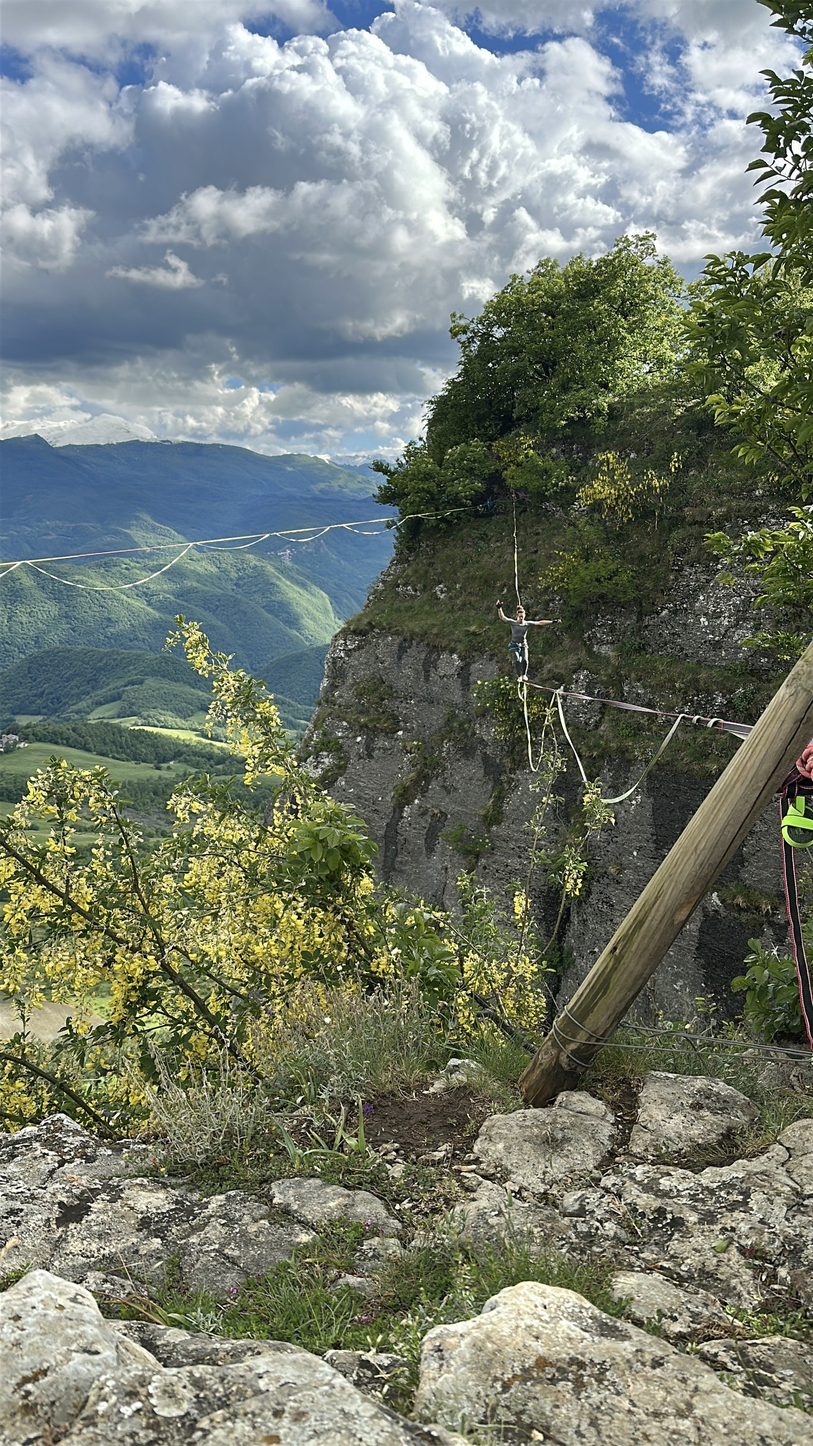
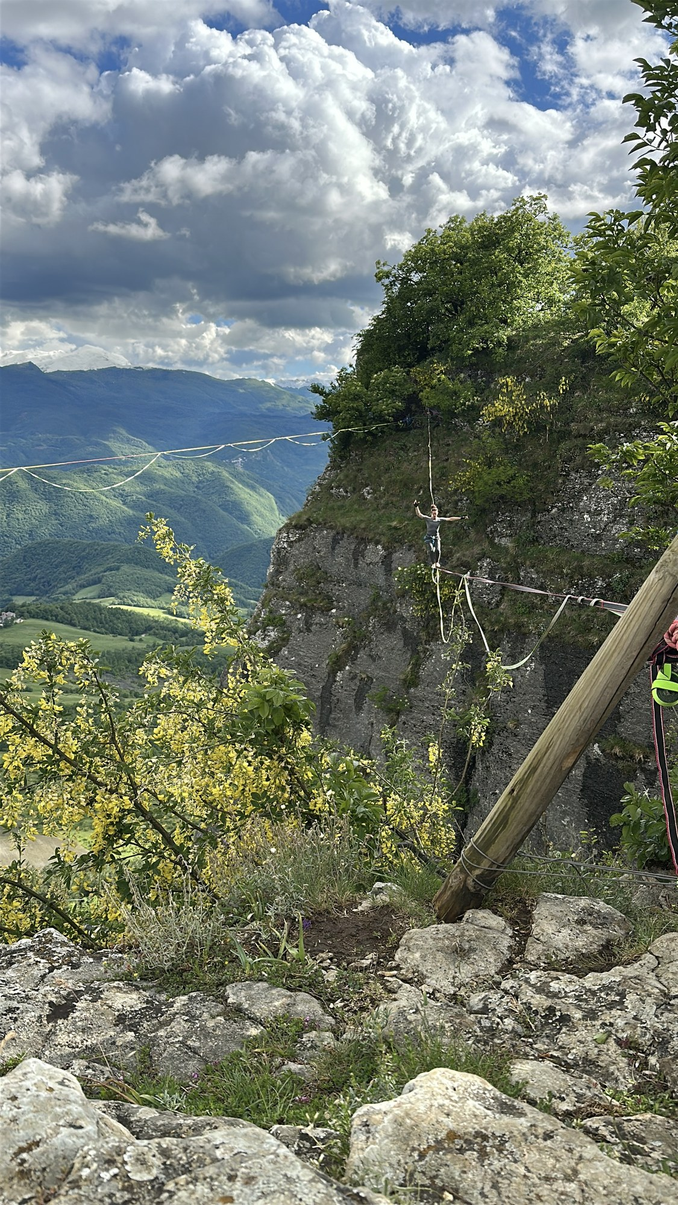
Documenta l'A-frame e la posizione dell'ancoraggio main
IMG_1416, fornita dall'utente il 20/08/2026, e' la stessa foto che era gia' in
foto_dritte ma con l'EXIF intatto: la copia in repo era un derivato ridotto e
l'EXIF, ridimensionando, si era perso. Rientra a 2000 px dall'originale.

Porta due cose che il progetto non aveva. La prima e' una posizione: 44.419869,
10.412353, quota 1025 m, registrata dal telefono di chi scattava stando
all'ancoraggio main. Il dubbio 3 chiedeva le coordinate dei due ancoraggi e non
aveva risposta; ora ne ha una, e il manuale la stampa dicendo che cos'e' — dove
stava il telefono, non un rilievo: colloca l'ancoraggio su una mappa, non lo
quota, e non serve a ritrovare il singolo punto.

La seconda e' l'A-frame. Era il dubbio 50: due pali di legno che nessuna delle
ventotto trascrizioni nomina mai, visti finora in una foto sola e mai entrati nel
manuale. Adesso hanno una sezione con le due fotografie, l'elenco di cio' che si
vede e l'elenco piu' lungo di cio' che manca. Solleva la linea sopra il bordo e
cambia l'angolo con cui carica la sosta: non e' un accessorio, ed e' il vuoto
documentale piu' grande dopo l'ancoraggio.

Cio' che la foto non decide resta domanda. Attorno al piede di un palo ci sono
giri di filo metallico che proseguono orizzontali: se tengano il palo o siano un
recinto preesistente non si stabilisce guardando, ed e' la differenza fra un
ancoraggio a terra e un caso. Sullo sfondo corre una linea tesa con sotto una
[…]

diff --git a/build/scheda_53.py b/build/scheda_53.py
@@ -90,7 +90,7 @@ def parte_53():
         ('13:55 — Tensionamento', 'Paranchino di base, pretensionamento'),
         ('14:09 — Blocco backup', 'Collegamento che prende sosta main e backup'),
         ('14:49 — Anti-slip', 'Nodo che impedisce lo slittamento nel weblock'),
-        ('17:08 — Linea camminata', 'Primi passaggi documentati dalle fotografie'),
+        ('17:08 — Linea camminata', 'Primi passaggi, documentati dalle fotografie fino alle 17:14'),
     ], LINEA, FW, 2))
     S.append(SP(14))
     S.append(callout('Un buco di un’ora e mezza',
@@ -328,9 +328,84 @@ def parte_53():
                      'dimenticanza di questo manuale: è un’assenza della fonte.', WARN, '!', FW, True))
     S.append(SP(26))
 
+    # ================================================================ p_ — A-frame
+    # Elemento strutturale che nessuna trascrizione nomina: esiste solo nelle
+    # fotografie, e per questo la sezione dice prima di tutto da dove viene.
+    sec(C_TEN, 'A-frame')
+    S.append(LineHeader('7', 'L’A-frame', _occh('lato tensione · A-frame'), C_TEN))
+    S.append(SP(10))
+    S.append(P('Sul lato dell’<b>ancoraggio main</b> la linea non esce dalla sosta e va '
+               'diritta nel vuoto: passa sopra un <b>A-frame</b>, due pali di legno tondo '
+               'incrociati in testa e appoggiati sul bordo. In ventidue minuti di parlato '
+               'nessuno lo nomina mai. È documentato <b>solo da due fotografie</b>, ed è per '
+               'questo che qui si descrive ciò che si vede e nient’altro.', lead))
+    S.append(SP(10))
+    S.append(ChipRow([('Pali', '2 · legno tondo'), ('Testa', 'Incrociata e legata'),
+                      ('Piede', 'Appoggiato su roccia'), ('Altezza', '[DA CONF.]')], C_TEN))
+    S.append(SP(12))
+    S.append(photo_pair(
+        str(FOTO / 'IMG_1416.jpg'), str(FOTO / 'IMG_1396.jpg'),
+        # Le didascalie di photo_pair vanno su una riga sola e non vengono
+        # mandate a capo: piu' larghe della colonna si sovrappongono a quella
+        # accanto. Meta' colonna regge circa cinquanta battute a corpo 7,4.
+        'Il palo visto dall’ancoraggio main · IMG_1416, 17:14',
+        'Testa dei pali, con la fettuccia viola · IMG_1396',
+        *dim(FOTO / 'IMG_1416.jpg'), color=C_TEN, ratio=1.28, focus=0.62,
+        ow2=dim(FOTO / 'IMG_1396.jpg')[0], oh2=dim(FOTO / 'IMG_1396.jpg')[1]))
+    S.append(SP(14))
+    S.append(two_cols(
+        gear_block('Ciò che si vede', [
+            'Due pali di legno tondo, incrociati e legati in testa',
+            'Fettuccia viola avvolta sulla testa dei pali',
+            'Corda verde fluo, fettuccia blu e corda rosa in testa',
+            'Piede dei pali appoggiato sulla roccia del bordo',
+            'Giri di filo metallico attorno al piede di un palo',
+        ], C_TEN),
+        gear_block('Ciò che manca', [
+            'Altezza dei pali — [DA CONFERMARE]',
+            'Diametro e tipo del legno — [DA CONFERMARE]',
+            'Come sono legati fra loro in testa — [DA CONFERMARE]',
+            'Se i piedi siano fermati o solo appoggiati — [DA CONFERMARE]',
+            'Se il filo metallico tenga il palo o sia un recinto — [DA CONFERMARE]',
+            'Di quanto solleva la linea sopra il bordo — [DA CONFERMARE]',
+        ], WARN)))
+    S.append(SP(12))
+    S.append(callout('Perché un elemento non nominato conta lo stesso',
+                     'L’A-frame solleva la linea sopra il bordo: cambia l’angolo con cui la '
+                     'linea carica la sosta e tiene il nastro lontano dalla roccia. '
+                     '<b>Non è un accessorio.</b> Che di un pezzo così non esista né una '
+                     'parola registrata né una misura è, di questo montaggio, il vuoto '
+                     'documentale più grande dopo l’ancoraggio.', WARN, '!', FW, True))
+    S.append(SP(26))
+
+    # ================================================================ dove si trova
+    sec(C_TEN, 'Posizione')
+    S.append(_apre(
+        LineHeader('', 'Dove si trova l’ancoraggio main', _occh('posizione'), C_TEN),
+        P('La fotografia delle 17:14 è stata scattata <b>stando all’ancoraggio main</b>, e il '
+          'telefono ha registrato la posizione. È il primo dato di posizione che questo '
+          'progetto possiede: nessun video la nomina, e il catalogo i-pietra non aiuta perché '
+          'le sue coordinate sono punti di una scena tridimensionale, non gradi sul terreno.',
+          lead)))
+    S.append(SP(12))
+    S.append(data_table(
+        ['Dato', 'Valore', 'Da dove viene'],
+        [['Latitudine, longitudine', '44.419869, 10.412353',
+          'EXIF di IMG_1416, 16/05/2026 17:14:38'],
+         ['Quota', '1025 m', 'EXIF di IMG_1416 — lettura del telefono'],
+         ['Ancoraggio opposto', '[DA CONFERMARE]', 'nessuna fotografia geolocalizzata']],
+        [128, 132, FW - 260], C_TEN))
+    S.append(SP(12))
+    S.append(callout('Una posizione, non un rilievo',
+                     'La coordinata dice dove stava <b>il telefono</b>, con la precisione che '
+                     'ha un GPS telefonico sotto una parete: colloca l’ancoraggio su una mappa, '
+                     'non lo quota. Vale come indicazione di avvicinamento — non per ritrovare '
+                     'il singolo punto, che va cercato a vista.', C_TEN))
+    S.append(SP(26))
+
     # ================================================================ la linea in opera
     sec(LINEA, 'In opera')
-    S.append(LineHeader('7', 'La linea in opera', _occh('in opera, ore 17:08'), LINEA))
+    S.append(LineHeader('8', 'La linea in opera', _occh('in opera, ore 17:08'), LINEA))
     S.append(SP(10))
     S.append(P('Il montaggio si chiude nel tardo pomeriggio. Le fotografie delle 17:08 sono la '
                'verifica che il sistema descritto in queste pagine ha retto: la campata è tesa '

diff --git a/build/build_scheda_dubbi.py b/build/build_scheda_dubbi.py
@@ -165,9 +165,10 @@ sezione('1', 'Quadro generale della linea', 'Sezione 1 · dati di testata', LINE
           'mai pronunciata · nota N2 del manuale', 2, True),
          (2, 'Dislivello fra i due lati — l\'offlevel. Quanto, e da che parte pende? '
              'Influenza il tensionamento.', 'mai pronunciato'),
-         (3, 'Coordinate GPS dei due ancoraggi. Servono per le intestazioni cliccabili dei '
-             'blocchi materiale. I linePoints di i-pietra sono coordinate della scena 3D, '
-             'non GPS.', 'mai pronunciate'),
+         (3, 'Coordinate GPS dell\'<b>ancoraggio opposto</b>. Quello main lo ha dato l\'EXIF '
+             'di IMG_1416 — 44.419869, 10.412353 — perche\' la foto e\' stata scattata '
+             'standoci. Basta una foto geolocalizzata di la\'.',
+          'IMG_1416 · main risolto il 20/08/2026'),
          (4, 'Accesso e avvicinamento: da dove si parte, quanto si cammina, dove si '
              'parcheggia.', 'mai descritto', 3),
          (5, 'Autorizzazioni, divieti stagionali per nidificazione, accordi con il gestore. '
@@ -269,9 +270,15 @@ sezione('4', 'Ancoraggio e verifiche a immagine', 'Sezione 4 · da guardare e fo
          (41, 'La <b>corda verde acqua</b> è la linea vita o il cordino di collegamento fra '
               'i punti? In IMG_1371 si vede annodata fra i punti dell\'ancoraggio. Le due '
               'funzioni potrebbero coesistere.', 'IMG_1371.JPEG · [IMG_1350 @ 0:33]', 3),
-         (50, 'C\'è un <b>A-frame</b> — due pali di legno con fettucce — visibile in '
-              'IMG_1396, mai nominato in nessuna trascrizione. Altezza, materiale e '
-              'ancoraggio a terra sono tutti ignoti.', 'foto/IMG_1396.JPG', 3),
+         (50, '<b>A-frame</b>: quanto sono <b>alti</b> i pali, che legno e che diametro, '
+              'come sono legati in testa, e di quanto sollevano la linea sopra il bordo? '
+              'In IMG_1416 attorno al piede di un palo si vedono giri di <b>filo '
+              'metallico</b>: tengono il palo o sono un recinto che c\'era già?',
+          'IMG_1396 · IMG_1416', 4),
+         (54, 'Sullo sfondo di IMG_1416 e IMG_1396 corre una <b>linea tesa con sotto una '
+              'seconda linea appesa a festoni</b>. È la campata della 53 m vista di '
+              'scorcio o <b>un\'altra linea</b> dello spot? E la linea a festoni che cos\'è '
+              '— backup, tagline lasciata in posa, altro?', 'IMG_1416 · IMG_1396', 4),
          (51, 'Il nastro appare <b>bianco o crema</b> in IMG_1401, con un secondo nastro '
               'chiaro parallelo. Se confermato chiude le voci 22 e 23.',
           'foto/IMG_1401.JPG')])

diff --git a/DUBBI.md b/DUBBI.md
@@ -40,7 +40,7 @@ e tipo di roccia.
 |---|---|---|---|---|---|
 | 1 | intro | Lunghezza effettiva della campata | Dato di testata | mai pronunciata | **riaperto** — i-pietra e locandina danno 53 m, ma l'utente rimisurerà sui punti. Nome di lavoro: «la 50» |
 | 2 | intro | Dislivello / offlevel fra i due lati | Dato di testata, influenza il tensionamento | mai pronunciato | aperto |
-| 3 | intro | Coordinate dei due ancoraggi | Intestazione dei blocchi materiale (cliccabili) | mai pronunciate | aperto — **i-pietra non aiuta**: i suoi `linePoints` sono coordinate della scena 3D, non GPS |
+| 3 | intro | Coordinate dei due ancoraggi | Intestazione dei blocchi materiale (cliccabili) | mai pronunciate | **mezzo chiuso** — l'**ancoraggio main** e' a `44.419869, 10.412353`, quota 1025 m: EXIF di `IMG_1416`, scattata stando li' il 16/05/2026 alle 17:14 (utente, 20/08/2026). E' la posizione del telefono, non un rilievo. **L'ancoraggio opposto resta aperto.** i-pietra non aiuta: i suoi `linePoints` sono coordinate della scena 3D, non GPS |
 | 4 | intro | Accesso e avvicinamento | Sezione di apparato prevista | mai descritto | aperto |
 | 5 | intro | Autorizzazioni, divieti stagionali, accordi con il gestore | Richiesto da CLAUDE.md se rilevante | mai nominati | aperto |
 | 6 | intro | Tempo reale di montaggio | I video coprono 2 h 38 min ma non dicono inizio e fine | metadati dei file | aperto |
@@ -104,10 +104,13 @@ e tipo di roccia.
 | 47 | — | **Materiale iCloud** acquisito: 19 foto + 14 video (1 min 57 s), 16/05/2026 | Immagini di apertura e prova del montaggio concluso | `foto/`, `video_icloud/` | ✅ esaminato. Le foto 17:08-17:14 mostrano **la linea montata e camminata**, oltre 1 h 30 dopo l'ultimo video di montaggio |
 | 49 | intro | **La giornata prosegue fino alle 17:14**, ma fra 15:38 e 17:08 non c'è nulla: manca la documentazione di tensionamento finale e primi passaggi | Il manuale deve dichiarare il buco | metadati | aperto |
 | 48 | — | I video nuovi contengono parlato tecnico? | Speranza di colmare i buchi dell'audio | `video_icloud/` | ✅ **no.** Trascritti tutti e 14: 11 sono Live Photo da 1-3 s; `IMG_1408` (0:49) dice solo «Olé, olé, olé», `IMG_1411` e `IMG_1417` sono muti. Valgono come **immagini**, non come fonte parlata |
-| 50 | E | **C'è un A-frame** — due pali di legno con fettucce — visibile in `IMG_1396.JPG`, mai nominato in nessuna trascrizione né notato prima | Elemento strutturale del lato tensione: altezza, materiale e ancoraggio a terra sono tutti ignoti | `foto/IMG_1396.JPG` | aperto |
+| 50 | E | **C'è un A-frame** — due pali di legno con fettucce — mai nominato in nessuna trascrizione | Elemento strutturale del lato tensione: altezza, materiale e ancoraggio a terra sono tutti ignoti | `IMG_1396`, `IMG_1416` | **parziale** — con `IMG_1416` (utente, 20/08/2026) l'A-frame ha una sezione nel manuale. Si vede che sta **sul lato dell'ancoraggio main**, che i piedi **appoggiano sulla roccia** e che attorno al piede di un palo ci sono **giri di filo metallico** che proseguono orizzontali. Restano aperti: altezza, diametro del legno, legatura in testa, di quanto solleva la linea, e **se quel filo tenga il palo o sia un recinto preesistente** |
 | 51 | — | Il **nastro della linea appare bianco/crema** in `IMG_1401`, con un secondo nastro chiaro parallelo (backup?) | Chiude i dubbi 22 e 23 se confermato | `foto/IMG_1401.JPG` | aperto |
 | 52 | intro | **I due cataloghi non concordano sul nome del settore.** i-pietra etichetta «Anfiteatro» anche le tre linee che la locandina mette sotto **Anfite-altro** (22, 30, 135 m). Qual è il nome che usate voi? | Stesso rischio del dubbio 45: chi cerca una linea partendo dall'app e chi parte dalla locandina finisce in due settori diversi | render 3D i-pietra, forniti dall'utente il 20/08/2026 | **confermato a immagine** — in `fonti/render_ipietra/anfite-altro.png` le tre linee portano l'etichetta «Anfiteatro». Resta da decidere quale nome usa il manuale |
 | 53 | intro | **La copertura di i-pietra è cambiata fra le due letture.** Il 19/08 lo snapshot del 5 agosto dava 12 linee su 24, senza i settori Despedida e Settore Giallo; il 20/08 i render ne mostrano 22 su 24 | Il numero finisce stampato nel capitolo sulle linee | snapshot 05/08/2026 + render 3D 20/08/2026 | ✅ **chiuso** — vale il dato del 20/08: **22 su 24**, mancano la 20 m e la 108 m dell'Anfiteatro. ⚠ Non era una lettura sbagliata: lo snapshot del 5 agosto quei settori non li conteneva proprio. Il manuale stampa il dato **con la data** |
+
+| 54 | — | **Nello sfondo di `IMG_1416` e `IMG_1396` corre una linea tesa con, sotto, una seconda linea chiara appesa a festoni.** Non si capisce se sia la campata della 53 m vista di scorcio o un'altra linea dello spot | Se fosse un'altra linea, due fotografie del capitolo della 53 m ne mostrerebbero una diversa senza dirlo | `IMG_1416`, `IMG_1396` | aperto — **da chiedere a chi c'era** |
+| 55 | E | **Che cos'è la seconda linea appesa a festoni** sotto quella tesa: backup, tagline lasciata in posa, o altro | Chiude in parte i dubbi 23 e 24 | `IMG_1416`, `IMG_1396` | aperto |
 
 ## Note da riportare nel manuale
 

diff --git a/NOTE_RIGGING.md b/NOTE_RIGGING.md
@@ -268,13 +268,23 @@ provvisori miei**, non nomi pronunciati nei video.
 
 Non compaiono in nessuna trascrizione: emergono guardando le immagini.
 
-- **A-frame** — due pali di legno con fettucce, sul bordo. `IMG_1396.JPG`. Altezza,
-  materiale e modo di ancoraggio a terra: tutti `[DA CONFERMARE]`. È un elemento
-  strutturale, non un accessorio: va documentato prima di considerare finito il manuale.
+- **A-frame** — due pali di legno tondo incrociati in testa, sul bordo, con fettuccia
+  viola avvolta sulla testa. `IMG_1396.JPG` e `IMG_1416.JPG`. Quest'ultima, fornita
+  dall'utente il 20/08/2026, aggiunge che l'A-frame sta **sul lato dell'ancoraggio
+  main**, che i piedi **appoggiano sulla roccia** e che attorno al piede di un palo
+  corrono **giri di filo metallico** che proseguono orizzontali — se tengano il palo o
+  siano un recinto preesistente non è stabilito. Altezza, diametro del legno e legatura
+  in testa restano `[DA CONFERMARE]`. È un elemento strutturale, non un accessorio.
 - **Placchetta su bullone con dado esagonale** — `IMG_1371`, `IMG_1372`.
 - **Carrucola bloccante** `EN 567:2013 · Ø 7,8-11 mm` — `IMG_1371`.
 - **Nastro della linea chiaro, bianco o crema**, con un secondo nastro parallelo —
   `IMG_1401`. Se confermato chiude i dubbi su nastro e backup.
+- **Coordinate dell'ancoraggio main** — `44.419869, 10.412353`, quota 1025 m, dall'EXIF
+  di `IMG_1416` scattata stando all'ancoraggio alle 17:14. Primo dato di posizione del
+  progetto. Precisione di un GPS telefonico sotto parete: colloca, non quota.
+- **Una linea tesa con sotto una seconda linea appesa a festoni**, sullo sfondo di
+  `IMG_1416` e `IMG_1396`. Non è stabilito se sia la campata della 53 m vista di scorcio
+  o un'altra linea dello spot: dubbi 54 e 55.
 
 ## Avvertenze pronunciate nei video
 

diff --git a/lavorazione/metadati_foto.md b/lavorazione/metadati_foto.md
@@ -1,0 +1,29 @@
+# Metadati delle fotografie
+
+Le immagini in `foto_dritte/` sono derivati: raddrizzarle e ridimensionarle
+**azzera l'EXIF**, e con l'EXIF se ne va l'ora dello scatto e la posizione. Sono
+dati di fonte quanto il parlato dei video, quindi si trascrivono qui alla prima
+lettura dell'originale.
+
+Letti con `python tools/importa_foto.py --in <file> --solo-dati`. Dove una riga
+dice «non letto», l'originale non è passato dallo strumento e il dato non è perso:
+è semplicemente ancora dentro il file sul telefono.
+
+| File | Scatto | Dispositivo | GPS | Quota | Pixel originali |
+|---|---|---|---|---|---|
+| `IMG_1416` | 16/05/2026 17:14:38 | Apple iPhone 14 Pro | 44.419869, 10.412353 | 1025 m | 1980×3520 |
+
+Le altre fotografie in `foto_dritte/` sono state importate prima che questo
+registro esistesse e la loro copia in repo non porta più l'EXIF. Per recuperarlo
+basta ripassare gli originali dal telefono attraverso `importa_foto.py`.
+
+## Che valore ha la posizione
+
+La coordinata è **dove stava il telefono**, con la precisione del GPS di un
+telefono sotto una parete: buona per collocare l'ancoraggio su una mappa, non è
+un rilievo topografico. Non va stampata come se fosse una misura strumentale, e
+non sostituisce il sopralluogo che il dubbio 3 di `DUBBI.md` chiede.
+
+Anche la quota viene dal telefono. Il valore di 1025 m è compatibile con un
+punto poco sotto la cima della Pietra, data a 1047 m dalla locandina, ma resta
+una lettura barometrica, non una quotatura.
